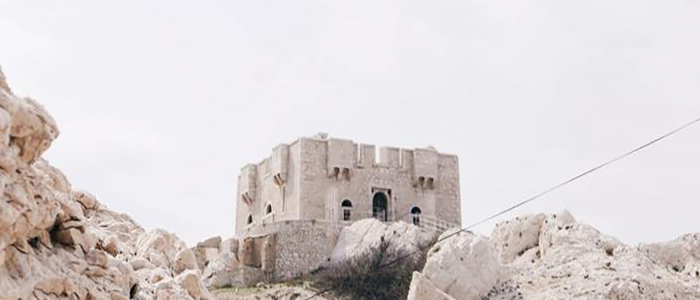
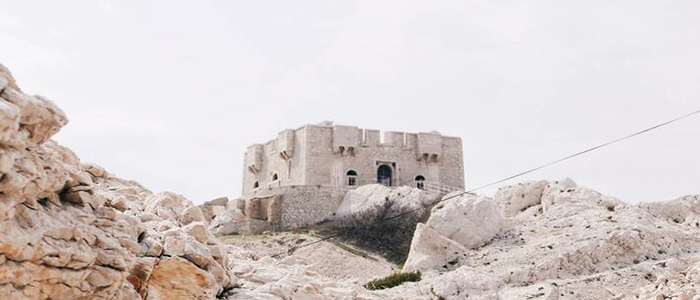
responsive images

diff --git a/index.html b/index.html
@@ -74,7 +74,8 @@
 
                     <a href="#">
                         <div class="card-popu">
-                            <img src="images/hebergements/hotel-le-soleil-du-matin.jpg" alt="illustration Hôtel Le soleil du matin" id="hotel-soleil">
+                            <img 
+                            src="images/hebergements/hotel-le-soleil-du-matin.jpg" alt="illustration Hôtel Le soleil du matin" id="hotel-soleil">
                             <div class="card-info-popu">
                                 <h4>Hôtel Le soleil du matin</h4>
                                 <p>Nuit à partir de 128<span>€</span></p>
@@ -233,40 +234,68 @@
             <div class="container-activity" id="activity">
                 <div class="activity-card item">
                     <a href="#">
-                        <img src="images/activites/vieux-port-mobile.jpg" id="vieux-port" alt="Illustration du vieux port">
+                        <img 
+                        src="images/activites/vieux-port-mobile.jpg" alt="Illustration vieux port"
+                        srcset="images/activites/vieux-port-mobile.jpg 330w, 
+                                images/activites/vieux-port.jpg 450w, 
+                                images/activites/vieux-port-tablet.jpg 700w"
+                        sizes="(min-width: 991px) 22vw, 100vw">
                         <h4>Vieux port</h4>
                     </a>
                 </div>
                 <div class="activity-card-group item">
                     <div class="activity-card">
                         <a href="#">
-                            <img src="images/activites/fort-de-pomegues-mobile.jpg" id="fort-pomegues" alt="Illustration du fort de Pomègues">
+                            <img
+                                src="images/activites/fort-de-pomegues-mobile.jpg" alt="Illustration du fort de Pomègues" class="pomegues"
+                                srcset="images/activites/fort-de-pomegues-mobile.jpg 330w,
+                                        images/activites/fort-de-pomegues.jpg 450w,
+                                        images/activites/fort-de-pomegues-tablet.jpg 700w"
+                                sizes="(min-width: 992px) 22vw, 100vw">
                             <h4>Fort de Pomègues</h4>
                         </a>
                     </div>
-                    <div class="activity-card">
+                    <div class="activity-card frioul">
                         <a href="#">
-                            <img src="images/activites/iles-du-frioul-mobile.jpg" id="iles-frioul" alt="Illustration îles du Frioul">
+                            <img 
+                                src="images/activites/iles-du-frioul-mobile.jpg" alt="Illustration îles du Frioul" class="frioul-img"
+                                srcset="images/activites/iles-du-frioul-mobile.jpg 330w
+                                        images/activites/iles-du-frioul.jpg 450w,
+                                        images/activites/iles-du-frioul-tablet.jpg 700w"
+                                sizes="(min-width: 992px) 22vw, 100vw">
                             <h4>&Icirc;les du Frioul</h4>
                         </a>
                     </div>
                 </div>
                 <div class="activity-card item">
                     <a href="#">
-                        <img src="images/activites/parc-national-des-calanques-mobile.jpg" alt="Illustration Parc national des Calanques" id="calanques">
+                        <img 
+                            src="images/activites/parc-national-des-calanques-mobile.jpg" alt="Illustration Parc national des Calanques" class="calanques"
+                            srcset="images/activites/parc-national-des-calanques-mobile.jpg 330w,
+                                    images/activites/parc-national-des-calanques.jpg 540w,
+                                    images/activites/parc-national-des-calanques-tablet.jpg 700w"
+                            sizes="(min-width: 992px) 22vw, 100vw">
                         <h4>Parc national des Calanques</h4>
                     </a>
                 </div>
                 <div class="activity-card-group item">
-                    <div class="activity-card">
+                    <div class="activity-card notre-dame">
                         <a href="#">
-                            <img src="images/activites/notre-dame-de-la-garde-mobile.jpg" id="notre-dame" alt="Illustration de Notre-Dame-de-la-Garde">
+                            <img src="images/activites/notre-dame-de-la-garde-mobile.jpg" alt="Illustration de Notre-Dame-de-la-Garde" class="notre-dame-img"
+                            srcset="images/activites/notre-dame-de-la-garde-mobile.jpg 310w
+                                    images/activites/notre-dame-de-la-garde.jpg 330w,
+                                    images/activites/notre-dame-de-la-garde-tablet.jpg 700w"
+                                sizes="(min-width: 992px) 22vw, 100vw">
                             <h4>Notre-Dame-de-la-Garde</h4>
                         </a>
                     </div>
-                    <div class="activity-card">
+                    <div class="activity-card longchamp">
                         <a href="#">
-                            <img src="images/activites/parc-longchamp-mobile.jpg" id="longchamp" alt="Illustration du parc Longchamp">
+                            <img src="images/activites/parc-longchamp-mobile.jpg" id="longchamp" alt="Illustration du parc Longchamp" class="longchamp-img"
+                                srcset="images/activites/parc-longchamp-mobile.jpg 330w
+                                        images/activites/parc-longchamp.jpg 450w,
+                                        images/activites/parc-longchamp-tablet.jpg 700w"
+                                sizes="(min-width: 992px) 22vw, 100vw">
                             <h4>Parc Longchamp</h4>
                         </a>
                     </div>

diff --git a/index.css b/index.css
@@ -500,21 +500,20 @@ footer div p {
     }
 
     .card-popu {
-        flex-direction: column;
-        margin-top: 9%;
+        height: 300px;
+        margin-top: 5%;
     }
     
     .card-popu img {
         border-radius: 20px 20px 0 0;
-        width: 100%;
     }
     
     .card-info-popu h4 {
+        margin-top: 10%;
         margin-left: 0;
     }
     
     .card-info-popu div {
-        margin-top: 2%
     }
     
     .card-info-popu p {
@@ -527,9 +526,7 @@ footer div p {
     }
     
     .activity-card img{
-        object-fit: cover;
         width: 100%;
-        height: 300px;
     }
     
 /* -------------------footer-----------------------*/
@@ -587,29 +584,6 @@ footer div p {
     #hotel-bleu-blanc {
         content: url(images/hebergements/hotel-tout-bleu-et-blanc-tablet.jpg)
     }
-    
-    /*--------------Activity ----------------*/
-    
-    #vieux-port {
-        content: url(images/activites/vieux-port-tablet.jpg);
-    }
-    #fort-pomegues {
-        content: url(images/activites/fort-de-pomegues-tablet.jpg);
-    }
-    #iles-frioul {
-        content: url(images/activites/iles-du-frioul-tablet.jpg);
-    }
-    #calanques {
-        content: url(images/activites/parc-national-des-calanques-tablet.jpg);
-    }
-    #notre-dame {
-        content: url(images/activites/notre-dame-de-la-garde-tablet.jpg);
-    }
-    #longchamp {
-        content: url(images/activites/parc-longchamp-tablet.jpg);
-    }
-
-}
 
 /*---------------------------------------------------- DESKTOP -------------------------------------------------------------*/
 @media all and (min-width: 992px) {
@@ -828,29 +802,38 @@ footer div p {
     }
     
     .item:first-child {
-        margin-left: 0;
-    }
-    
-    .activity-card {
-        margin-bottom: 0;
+        margin-left:0;
     }
     
     .activity-card a img {
         margin-bottom: 0;
-        width: 100%;
-        height: auto;
     }
     
-    .activity-card-group .activity-card img {
-        height: 100%;
+    .frioul {
+        height: 40%;
+        margin-bottom: -1%;
     }
     
-    .activity-card-group {
-        display: flex;
-        flex-direction: column;
-        justify-content: space-between;
+    .frioul-img {
+        height: 70%;
+    }
+    
+    .notre-dame {
+        height: 45%;
+    }
+    
+    .notre-dame-img {
+        height: 80%;
     }
 
+    .longchamp {
+        height: 45%;
+        margin-bottom: -1%;
+    }
+    
+    .longchamp-img {
+        height: 75%;
+    }
     /* -------------------footer-----------------------*/
     
     footer {
@@ -906,26 +889,3 @@ footer div p {
     #hotel-amina {
         content: url(images/hebergements/hotel-chez-amina.jpg);
     }
-    
-    /* ----Activities--- */
-    
-    #vieux-port {
-                content: "";
-        content: url(images/activites/vieux-port.jpg);
-    }
-    #fort-pomegues {
-        content: url(images/activites/fort-de-pomegues.jpg);
-    }
-    #iles-frioul {
-        content: url(images/activites/iles-du-frioul.jpg);
-    }
-    #calanques {
-        content: url(images/activites/parc-national-des-calanques.jpg);
-    }
-    #notre-dame {
-        content: url(images/activites/notre-dame-de-la-garde.jpg);
-    }
-    #longchamp {
-        content: url(images/activites/parc-longchamp.jpg);
-    }
-}
